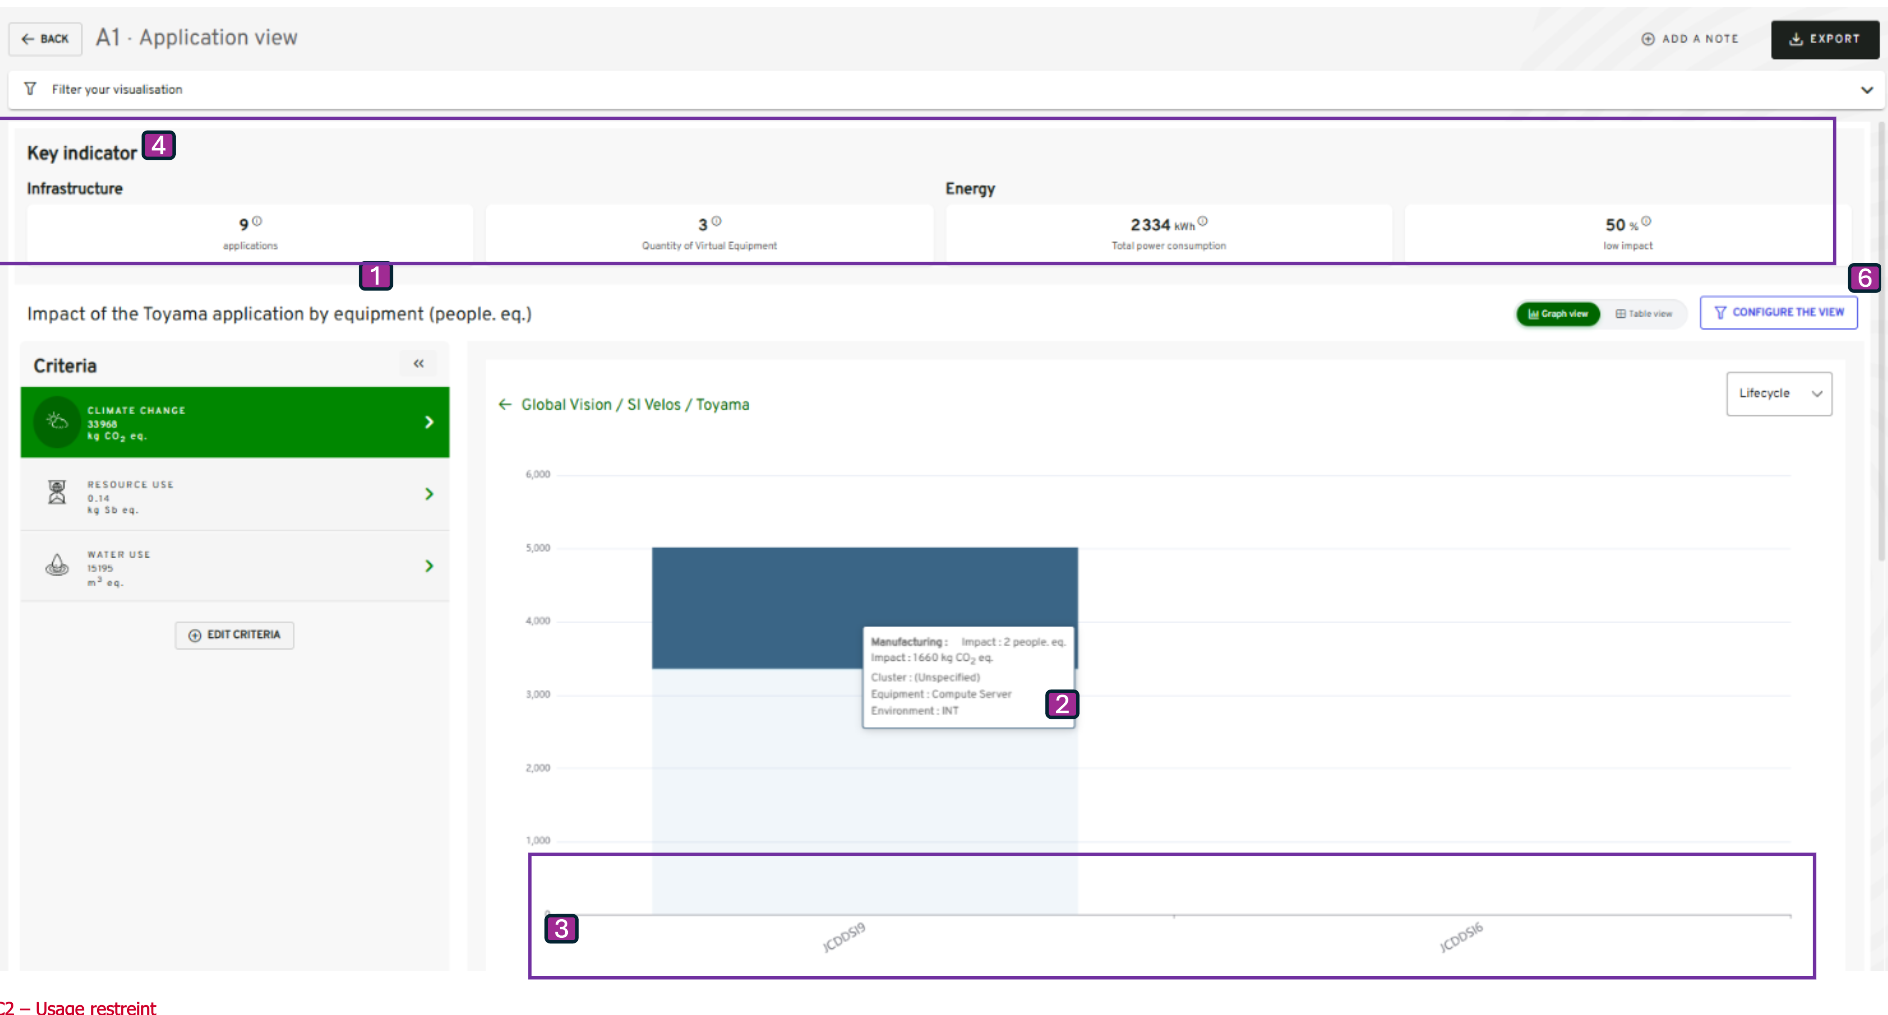
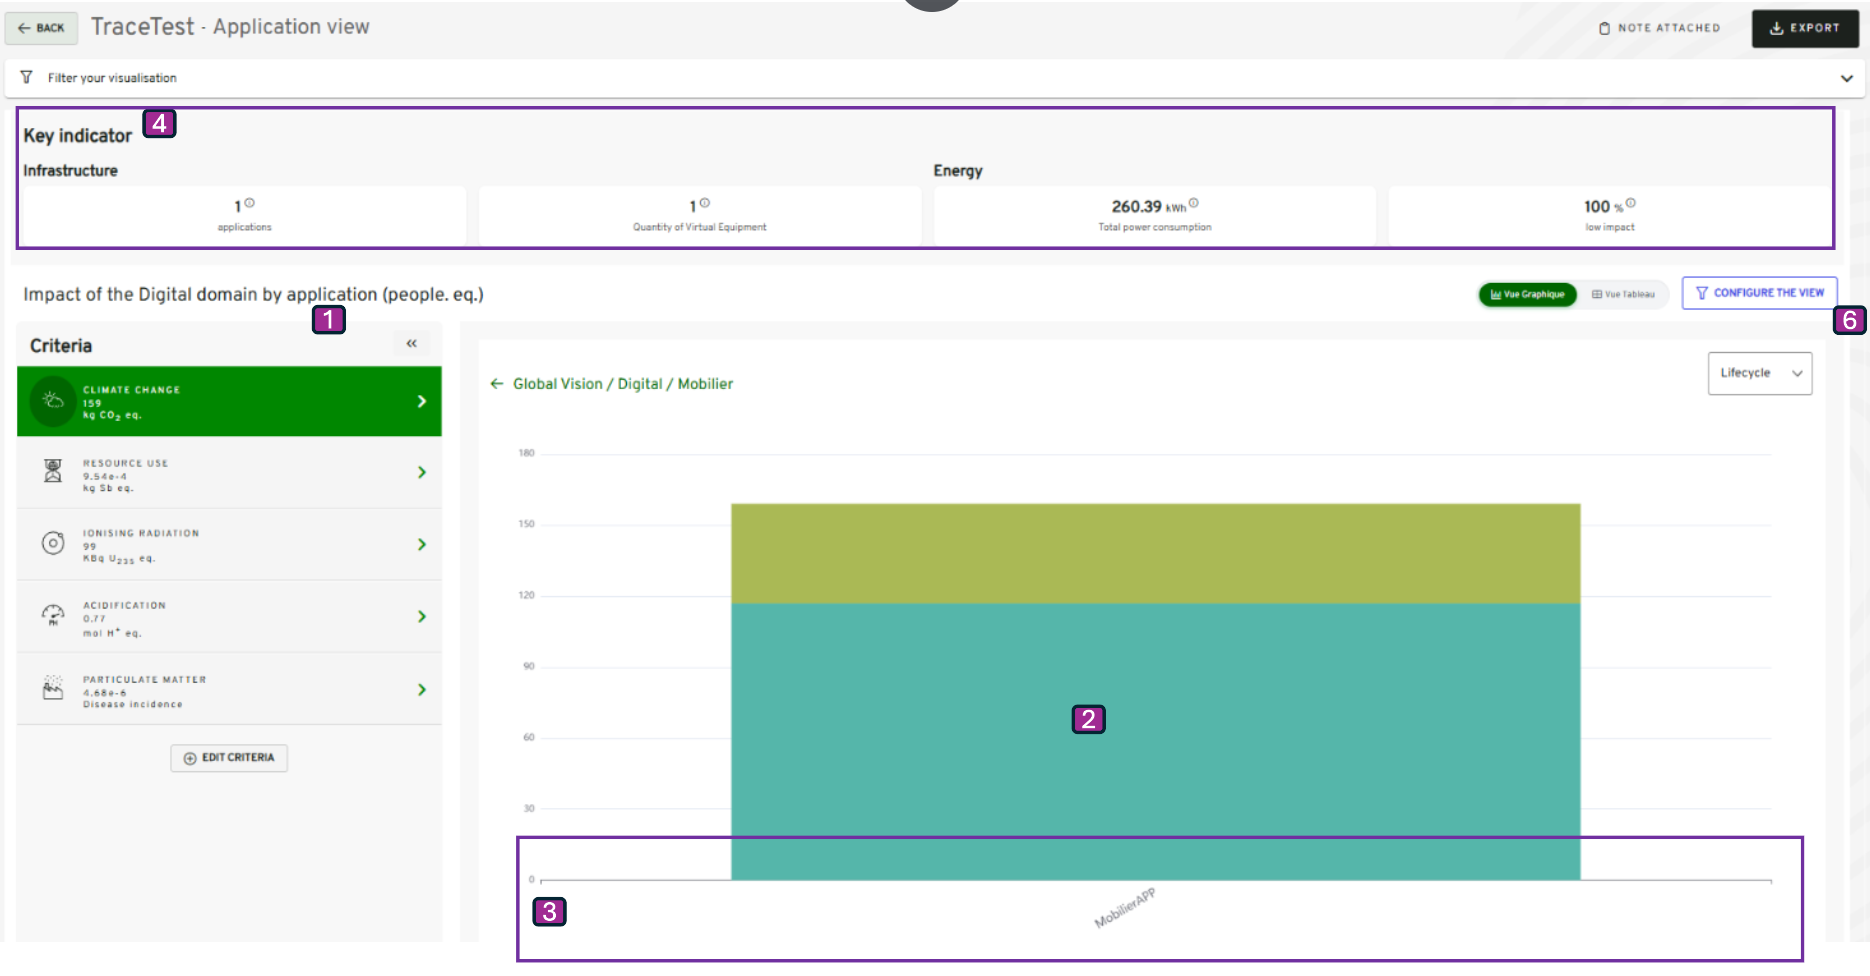
feat(2026): modified documentation

diff --git a/services/documentation/content/2-functional-documentation/use_cases/uc_inventory/uc6_visualize_application_footprint.md b/services/documentation/content/2-functional-documentation/use_cases/uc_inventory/uc6_visualize_application_footprint.md
@@ -158,7 +158,7 @@ representing one of the application|Step8[Visualize impact for an application by
 
 ![uc6_visualize_application_footprint_by_criteria_level_subDomain.png](../images/uc6_visualize_application_footprint_by_criteria_level_subDomain.png)
 
-![uc6_visualize_application_footprint_by_criteria__level_Domain2.png](../images/uc6_visualize_application_footprint_by_criteria__level_Domain2.png)
+![uc6_visualize_application_footprint_by_criteria_level_subDomain1.png](../images/uc6_visualize_application_footprint_by_criteria_level_subDomain1.png)
 
 {{% expand title="Behavior rules" expanded="false" center="true"%}}
 
@@ -214,23 +214,27 @@ representing one of the application|Step8[Visualize impact for an application by
 
 ![uc6_visualize_application_footprint_by_criteria_level_VM.png](../images/uc6_visualize_application_footprint_by_criteria_level_VM.png)
 
+![uc6_visualize_application_footprint_by_criteria_level_VM1.png](../images/uc6_visualize_application_footprint_by_criteria_level_VM1.png)
+
 {{% expand title="Behavior rules" expanded="false" center="true"%}}
 
-| Reference | Group                   | Elements         | Sub-Elements       | Type         | Description                                                                                                                                                                                                                                              |
-| --------- | ----------------------- | ---------------- | ------------------ | ------------ | -------------------------------------------------------------------------------------------------------------------------------------------------------------------------------------------------------------------------------------------------------- |
-| 1         | Title                   |                  |                    |              | <li><u>_initialization rules_</u>: The title is the concatenation of the depth levels.<br><br><li><u>_action rules_</u>: By clicking on it, it allows you to go up one level.<br>                                                                        |
-|           | Graphical visualization |                  |                    | group        | Details of the behaviour and content are described in Multi-criteria View or in View dedicated for each criteria                                                                                                                                         |
-| 2         |                         | bar tooltips     |                    | label        | <li><u>_initialization rules_</u>: By overflying a bar, information is displayed :<br><br> - VM's impact in people eq.<br><br> - VM's impact in the unit of the chosen criterion<br><br> - Cluster<br><br> - Type of equipment<br><br> - Environment<br> |
-| 3         |                         | bar chart        |                    | bar chart    | <li><u>_initialization rules_</u>: Bar chart representing the application's impact of my inventory by virtual machine and environment in people eq.                                                                                                      |
-|           | Key indicators          |                  |                    | group        | These key indicators contextualize the impacts observed and represent the main levers for action to reduce impacts.                                                                                                                                      |
-| 4         |                         | Application      |                         |              |                                                                                                                                                                                                                                                                                     |
-|           |                         |                  | Applications            | label        | <li><u>_initialization rules_</u>: Display the number of the applications taking into account the filters.                                                                                                                                                                          |
-|           |                         |                  | Quantity of Virtual Equipment| label   | <li><u>_initialization rules_</u>: Sum of quantity of virtual equipment and cloud instances of inventory.                                                                                                                                                            |
-|           |                         |                  | Total power consumption | Radio button | <li><u>_initialization rules_</u>: Sum of Virtual Equipement electricity consumption (estimated for Cloud Service)                                                                                                                                                                 |
-|           |                         |                  | low impact              | Radio button | <li><u>_initialization rules_</u>: "% of equipment used in a country with a low multi-criteria impact on the electricity mix (1st quartile, Cloud excluded)                                                                                                                                                                   |
-| 5         |                         | Lifecycle        |                    |              | <li><u>_initialization rules_</u>: Pie chart representing the impact of my application by lifecycle step                                                                                                                                                 |
-| 6         |                         | Environment      |                    |              | <li><u>_initialization rules_</u>: Pie chart representing the impact of my application by environment                                                                                                                                                    |
-|           |                         | Data consistency |                    | button       | <li><u>_action rules_</u>: Click to view graph of data consistency for the VMs of selected application level. See [Global concepts/ Data consistency](../../global_concepts/uc1_dataconsistency.md) </li>                                                |
+| Reference | Group                   | Elements                 | Sub-Elements            | Type         | Description                                                                                                                                                                                                                                                                         |
+|-----------| ----------------------- |--------------------------| ----------------------- | ------------ | ----------------------------------------------------------------------------------------------------------------------------------------------------------------------------------------------------------------------------------------------------------------------------------- |
+| 1         | Title                   |                          |                         |              | <li><u>_initialization rules_</u>: The title is the concatenation of the depth levels.<br><br><li><u>_action rules_</u>: By clicking on it, it allows you to go up one level.<br>                                                                                                   |
+|           | Graphical visualization |                          |                         | group        |                                                                                                                                                                                                                                                                                     |
+| 2         |                         | bar tooltips             |                         | label        | <li><u>_initialization rules_</u>: By overflying a bar, information is displayed :<br><br> - Domain's impact in people eq.<br><br> - Domain's impact in the unit of the chosen criteria<br><br> - Subdomain's number of the domain<br><br> - Application's number of the domain<br> |
+| 3A        |                         | bar chart                |                         | bar chart    | <li><u>_initialization rules_</u>: Bar chart representing the application's impact of my inventory for one criterion by domain in people eq..<br><li><u>_action rules_</u>: By clicking on a bar, the user is redirected to a graph representing this domain's impact.              |
+|           | Key indicators          |                          |                         | group        | These key indicators contextualize the impacts observed and represent the main levers for action to reduce impacts.                                                                                                                                                                 |
+| 4         |                         | Application              |                         |              |                                                                                                                                                                                                                                                                                     |
+|           |                         |                          | Applications            | label        | <li><u>_initialization rules_</u>: Display the number of the applications taking into account the filters.                                                                                                                                                                          |
+|           |                         |                          | Quantity of Virtual Equipment| label   | <li><u>_initialization rules_</u>: Sum of quantity of virtual equipment and cloud instances of inventory.                                                                                                                                                            |
+|           |                         |                          | Total power consumption | Radio button | <li><u>_initialization rules_</u>: Sum of Virtual Equipement electricity consumption (estimated for Cloud Service)                                                                                                                                                                 |
+|           |                         |                          | low impact              | Radio button | <li><u>_initialization rules_</u>: "% of equipment used in a country with a low multi-criteria impact on the electricity mix (1st quartile, Cloud excluded)                                                                                                                                                                   |
+| 5         |                         | Lifecycle                |                         |        | <li><u>_initialization rules_</u>: Pie chart representing the impact of my application by lifecycle step                                                                                                                                                                                                                                                                                                                                                                                                                                                                                                                                                                    |
+| 6         |                         | Configure the view       | Enable data consistency | button | <li><u>action rules</u>: Click to view graph of data consistency for the all criteria. See [Global concepts/ Data consistency](../../global_concepts/uc1_dataconsistency.md)</li>                                                                                                                                                                                                                                                                                                                                                                                                                                                                                           |
+|           |                         |                          | Units Management        | button | <li><u>action rules</u>: Click to view impact values either in the unit specific to the selected impact criteria or in people equivalent. </li>                                                                                                                                                                                                                                                                                                                                                                                                                                                                                                                             |
+| 7         |                         | Environment              |                         |        | The types of applications representing the impact of application for the inventory is displayed.                                                                                                                                                                                                                                                                                                                                                                                                                                                                                                                                                                            |
+| 8         |                         | Description of the graph |                         |        | The description of the graph is displayed.                                                                                                                                                                                                                                                                                                                                                                                                                                                                                                                                                                                                                                  |
 
 {{% /expand %}}
 

diff --git a/services/documentation/content/3-technical-documentation/6-ecomind_roles_and_access/_index.md b/services/documentation/content/3-technical-documentation/6-ecomind_roles_and_access/_index.md
@@ -14,7 +14,7 @@ You can check [how to enable Ecomind module](../../1-getting-started/3-getting-s
 
 ### Ecomind module activation for a particular organization
 
-You can check [how to enable Ecomind module for an organization](../../1-getting-started/3-getting-started-as-a-maintainer/1-how-to/ecomind/2-enable_ecomind_for_a_organization/_index.md) page to know how to enable Ecomind for a particular organization.
+You can check [how to enable Ecomind module for an organization](../../1-getting-started/3-getting-started-as-a-maintainer/1-how-to/ecomind/2-enable_ecomind_for_an_organization/_index.md) page to know how to enable Ecomind for a particular organization.
 
 - If the global Ecomind module is set to true and Ecomind is set to false for an organization then no one will be able to access Ecomind on this organization, including a super admin.
 
